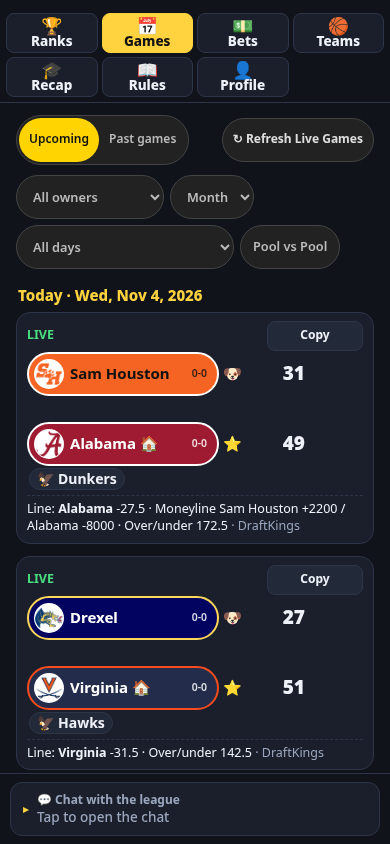
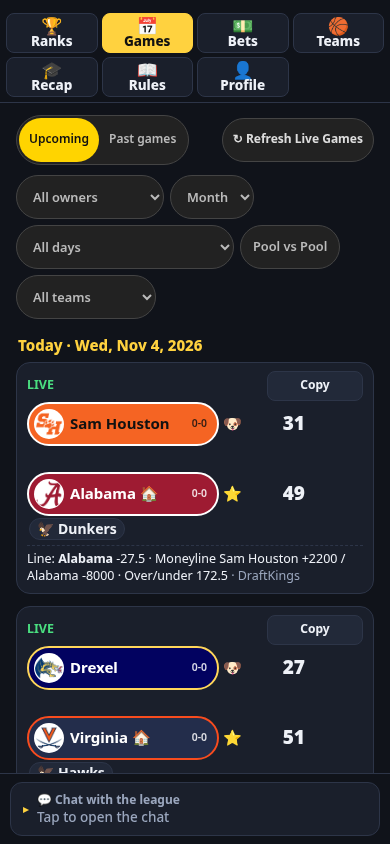
sync-step1: All teams filter, PROGRESS session 2

Changed region(s): [[0.0308, 0.3389, 0.8923, 0.9242], [0.6769, 0.3697, 0.9538, 0.4621], [0.7077, 0.8626, 0.8308, 0.9242]]

diff --git a/js/leaguehome.js b/js/leaguehome.js
@@ -58,7 +58,7 @@ app.innerHTML='<main><div id="loading">'+LLOADER('Loading…')+'</div></main>';
 /* ---------- state ---------- */
 const TABS=[['standings','🏆 Standings','Ranks','Standings'],['games','📅 Games','Games','Games'],['bets','💵 Bets','Bets','Bets'],['teams','🏀 All teams','Teams','All teams'],['recap','🎓 Recap','Recap','Recap'],['redraft','🔄 Redraft','Redraft','Redraft'],['rules','📖 Rules','Rules','Rules'],['profile','👤 Profile','Profile','Profile']]   /* s28j item 10: Profile replaces Share in the same (last) slot; #share -> #profile */;   /* s28: partner order (Standings, Games, Bets, All teams, Recap, Rules) + Share as its own last tab; s28: no Archive tab in League (partner-only), #archive falls back to Standings; League-only Rosters and date-windowed Redraft kept in their partner-like slots */   /* s27: Draft tab folded into Recap (#draft -> #recap) */   /* s26c10: Recap (draft grades + weekly write-ups; replaces the footer / Rules 'Draft recap' links) and Draft (room link / pick board) tabs */   /* s25 order (Paul) */
 const KEYS=TABS.map(t=>t[0]);
-let tab='standings',ownerSel=null,openTeam={},gOwner='all',gMode=null,gDay='all',gH2H=false,gAll=false;
+let tab='standings',ownerSel=null,openTeam={},gOwner='all',gTeam='all',gMode=null,gDay='all',gH2H=false,gAll=false;
 let L=null,D=null,SC=null,TN=null,errS='',errT='',CM=false,HERO_CUSTOM=null,MG=[];
 /* s24 routes: every tab has its own hash (#standings #games #rosters #bets #teams #postseason #redraft #archive #rules), plus deep links #bets/<betId> and #games/<gameId>.
    URLs written by this page (pushState for tab switches, replaceState for the first normalization) and every shared / copied link are built ONLY from
@@ -318,6 +318,7 @@ const liveRow=()=>'<div id="live" class="lv" hidden><span id="lvT" aria-live="po
 function vGames(){const every=D.games||[],nHidden=every.filter(g=>!gOwned(g)).length;if(!nHidden)gAll=false;const all=gAll?every:every.filter(gOwned);
   const ups=all.filter(g=>g.status!=='final'),fin=all.filter(g=>g.status==='final');if(!gMode)gMode=ups.length?'upcoming':'scores';
   let list=(gMode==='upcoming'?ups:fin.slice().reverse());if(gOwner!=='all')list=list.filter(g=>g.home.owners.includes(gOwner)||g.away.owners.includes(gOwner));if(gH2H)list=list.filter(g=>g.h2h||g.civil);
+  const tIds=[...new Set(list.flatMap(g=>[g.away,g.home].filter(x=>x.owners&&x.owners.length).map(x=>String(x.id))))].sort((a,b)=>gName({id:a}).localeCompare(gName({id:b})));if(gTeam!=='all'&&!tIds.includes(gTeam))gTeam='all';if(gTeam!=='all')list=list.filter(g=>String(g.home.id)===gTeam||String(g.away.id)===gTeam);   /* sync-step1: All teams filter (= STOOPIDS mockreal) */
   /* s28g Games filters = STOOPIDS s29d (/workspace/s29d/games_filters_snippet.md, S29D-GF): row 1 = the plain .rkseg/.rkseg-b Upcoming | Past games toggle (no overrides);
      row 2 .gf2 (no card) = Owner, Month (jump to the first game day of that month), Day, + on Upcoming only League's 'Owner vs owner' pill (League has no Pool-only filter). */
   if(gMode!=='upcoming')gH2H=false;
@@ -329,7 +330,7 @@ function vGames(){const every=D.games||[],nHidden=every.filter(g=>!gOwned(g)).le
   const daySel=`<select class="gf2-s${gDay!=='all'?' on':''}" id="gDaySel" aria-label="Day"><option value="all">All days</option>${days.map(k=>`<option value="${esc(k)}"${k===gDay?' selected':''}>${esc(etLabel(k))}</option>`).join('')}</select>`;
   const gb=(k,l)=>`<button type="button" class="rkseg-b${gMode===k?' on':''}" data-a="gmode" data-v="${k}" aria-pressed="${gMode===k}">${l}</button>`;
   let h=`<div class="mkrow"><div class="rkseg gctl" role="group" aria-label="Games view">${gb('upcoming','Upcoming')}${gb('scores','Past games')}</div><button type="button" class="rkseg-b mkref" data-a="lvrefresh" aria-label="Refresh live games">&#8635; Refresh Live Games</button></div>
-   <div class="gf2"><select id="gOwnerSel" class="gf2-s${gOwner!=='all'?' on':''}" aria-label="Owner"><option value="all">All owners</option>${D.owners.map(o=>`<option value="${esc(o.name)}"${o.name===gOwner?' selected':''}>${esc(o.emoji)} ${esc(TNm(o))}${RNm(o)?' · '+esc(RNm(o)):''}</option>`).join('')}</select>${monSel}${daySel}${gMode==='upcoming'?`<button type="button" data-a="gh2h" class="gf2-b${gH2H?' on':''}" aria-pressed="${gH2H?'true':'false'}" title="Only games where both teams are owned by league managers">Pool vs Pool</button>`:''}</div>${nHidden?`<label class="gUn s27-ck"><input type="checkbox" id="gUnowned"${gAll?' checked':''}> Show unowned games <span class="mut">(${nHidden} hidden)</span></label>`:''}`;
+   <div class="gf2"><select id="gOwnerSel" class="gf2-s${gOwner!=='all'?' on':''}" aria-label="Owner"><option value="all">All owners</option>${D.owners.map(o=>`<option value="${esc(o.name)}"${o.name===gOwner?' selected':''}>${esc(o.emoji)} ${esc(TNm(o))}${RNm(o)?' · '+esc(RNm(o)):''}</option>`).join('')}</select>${monSel}${daySel}${gMode==='upcoming'?`<button type="button" data-a="gh2h" class="gf2-b${gH2H?' on':''}" aria-pressed="${gH2H?'true':'false'}" title="Only games where both teams are owned by league managers">Pool vs Pool</button>`:''}<select id="gTeamSel" class="gf2-s${gTeam!=='all'?' on':''}" aria-label="Team"><option value="all">All teams</option>${tIds.map(t=>`<option value="${esc(t)}"${t===gTeam?' selected':''}>${esc(gName({id:t}))}</option>`).join('')}</select></div>${nHidden?`<label class="gUn s27-ck"><input type="checkbox" id="gUnowned"${gAll?' checked':''}> Show unowned games <span class="mut">(${nHidden} hidden)</span></label>`:''}`;
   if(!list.length)return h+`<div class="card" id="gempty">${all.length?'Nothing matches those filters.':nHidden?'No games with an owned team right now 🏀 Check back soon. (Games where nobody in the league owns either team are hidden.)':'No games for rostered teams yet. The schedule and scores show up here as soon as games are played. Everything refreshes automatically.'}</div>`;
   let cur=null;list.slice(0,300).forEach(g=>{const k=etKey(g);if(k!==cur){if(cur!==null)h+='</div>';cur=k;h+=`<div class="gday">${esc(etLabel(k))}</div><div class="${gMode==='scores'?'ggrid gfins':'ggrid'}">`}h+=gameCard(g)});if(cur!==null)h+='</div>';
   if(gCapped)h+=`<div class="card note gmore">+${gCapped} more games later in the season. Pick a day or a month above.</div>`;if(list.length>300)h+=`<div class="card note">Showing the first 300 games. Use the filters to narrow the list.</div>`;return h}
@@ -608,7 +609,7 @@ const ACT={trynow:()=>boot(true),
   gmode:el=>{gMode=el.dataset.v;gDay='all';if(gMode!=='upcoming')gH2H=false;render()},gh2h:()=>{gH2H=!gH2H;render()},
   fresh:()=>freshToggle(),lvrefresh:()=>lvManual()};
 document.addEventListener('change',e=>{const el=e.target;if(el.id==='herofile'){const f=el.files&&el.files[0];el.value='';if(f)heroChange(f);return}
-  if(el.id==='s29shSel'){SHTAB=el.value;const i=document.getElementById('s29shUrl');if(i)i.textContent=shareUrl(SHTAB)}else if(el.id==='gOwnerSel'){gOwner=el.value;render()}else if(el.id==='gMonthSel'){if(el.value){gDay=el.value;render()}}else if(el.id==='gDaySel'){gDay=el.value;render()}else if(el.id==='gUnowned'){gAll=el.checked;render()}});
+  if(el.id==='s29shSel'){SHTAB=el.value;const i=document.getElementById('s29shUrl');if(i)i.textContent=shareUrl(SHTAB)}else if(el.id==='gOwnerSel'){gOwner=el.value;render()}else if(el.id==='gTeamSel'){gTeam=el.value;render()}else if(el.id==='gMonthSel'){if(el.value){gDay=el.value;render()}}else if(el.id==='gDaySel'){gDay=el.value;render()}else if(el.id==='gUnowned'){gAll=el.checked;render()}});
 document.addEventListener('submit',e=>{if(e.target&&e.target.id==='chatform'){e.preventDefault();const i=document.getElementById('chatin');const t=i?i.value.trim():'';if(!t||!ME||DEMO)return;i.value='';CHAT.draft='';sendChat(t)}});
 document.addEventListener('input',e=>{if(e.target&&e.target.id==='chatin')CHAT.draft=e.target.value});
 document.addEventListener('keydown',e=>{if(e.key==='Escape'&&CHAT.open&&e.target&&e.target.closest&&e.target.closest('#chat')){ACT.chatopen();const b=document.getElementById('chatbar');if(b)b.focus({preventScroll:true})}});

diff --git a/PROGRESS.md b/PROGRESS.md
@@ -9,15 +9,23 @@ Files changed: league.html (+css/sync-step1.css, last), js/leaguehome.js (Games/
 - Bets: "Pick one or more opponents…" hint returns ''.
 - Tight bottom gap (main pb 8px, footer pb 12px).
 
+## Done in session 2 (4 Nov, ~09:10–09:50 WIB)
+- Header frame: laptop banner/header 1000px (140..1140, = STOOPIDS), tagline flush under title (17px line). Measured: League hero 140/0/1000x235, h1 top 291, tag top 363 = STOOPIDS.
+- Games 3 across at >=900px (2 at 641–899) on League (css/sync-step1.css) AND /workspace/mockreal (mock.css + inline MOCK style in index.html; backups /tmp/mockreal-index.bak, /tmp/mockreal-mock.css.bak).
+- Bet outline now uses League's real model: LBETS.bets() (= reduce() of the per-manager logs fbn1-<id>-bets-<mid>), match on b.g (ESPN event id), ignoring void/declined/withdrawn/pools.
+- Seeded real-data league: `node /tmp/seed2.js > /tmp/seed2.json` (8 managers + one pending bet on an upcoming game, viewer = the bettor via localStorage fbn.me.<id>). Shooter: `shoot_real.py real games,bets,standings`. Verified: 1 green-outlined card, 12 stacked Quick bet buttons, Bets form without hint (empty #b27Live box hidden).
+- All teams filter ported (#gTeamSel: owned schools in the current list, alphabetical; checked 126 -> 12 cards).
+- Page tests run (out/tests.log vs untouched baseline out/tests-baseline.log, same mock setup): e2e_lsite 3/8 (baseline 3/8), e2e_games_s28c 21/30 (baseline 21/30), e2e_header_s26c14 27/39 (baseline 27/39), e2e_alignment 3/8 (baseline -1/8). No new failures; the failing checks are stale specs (old tab list with Rosters/Share/Draft, 4-in-a-row controls, #live row, 140..1140 edges).
+
 ## Not done / unverified
-- Header frame (banner/title/tagline) not yet compared pixel-for-pixel with STOOPIDS (League shows "DEMO DATA" badge + extra demo note card).
-- Quick bet stack + green outline not visually verified: demo has no signed-in manager and bets are off in demo. gHasBet guesses at the LBETS state shape (S.bets/S.list) – check it.
-- Bets form not screenshotted (demo disables Bets) – needs a non-demo seeded league with scores.
-- Mockreal's extra "All teams" filter select on Games not ported; League has 7 tabs (no Archive), so phone row 2 has an empty slot.
+- League has 7 tabs (no Archive), so phone row 2 has an empty slot; header content width (1000) vs tab bar (1080) follows STOOPIDS but the content then aligns to the tab bar, not the banner.
+- Tests: update the stale specs (e2e_lsite tab list, e2e_games_s28c row-of-4, e2e_header #live row now hidden: Refresh moved into the toggle row, e2e_alignment edge numbers) to the new agreed look.
+- tests/node_modules is a local symlink to /workspace/audit/s29d/node_modules (excluded via .git/info/exclude).
 - Rosters/Recap/Rules/Profile/redraft.html/recap.html not touched; e2e tests not run.
 - "Updated X min ago" uses LV.lastOk or D.meta.updated; shows "just now" when unknown.
 
 ## Next
+0. Rewrite the 4 stale test specs to the new look, re-run, then Rosters/Recap/Rules/Profile parity.
 1. Seed a non-demo league with a manager identity (localStorage) to verify Quick bet stack, outline, Bets form.
 2. Header frame parity, then run tests/e2e_lsite.js + e2e_games_s28c.js on the mock.
 3. Port "All teams" filter if wanted; decide 8th tab.
